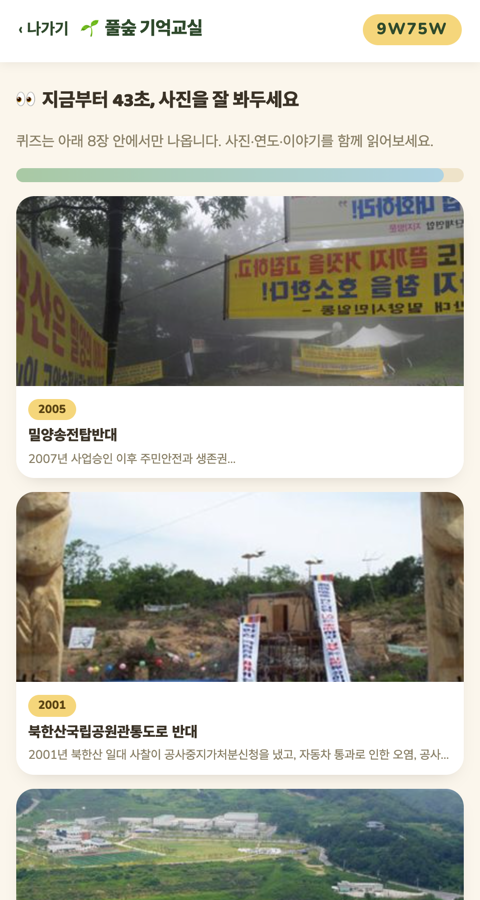
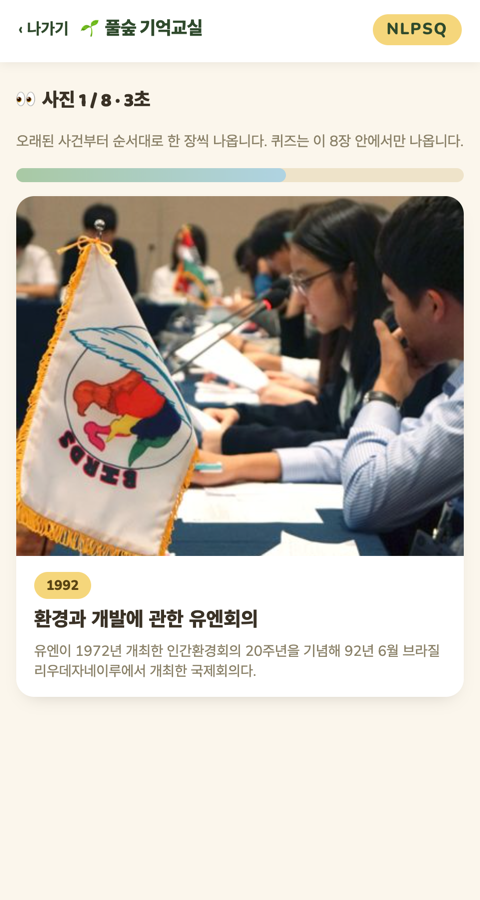
학습 단계를 8장 동시 노출에서 연도순 1장씩 5초로 변경
- 8장을 한꺼번에 보여주던 학습 화면을, 오래된 사건부터
  한 장씩 5초씩 자동으로 넘어가도록 변경(studyIndex/studyCardEndsAt)
- 카드를 크게 키운 단일 카드 뷰(.scard.big)로 교체
- RULES.md·README에 새 진행 방식 반영, 순서 배열 라운드가
  쉬워질 수 있다는 점을 메모로 남김
- README 대표 스크린샷을 새 화면으로 교체

diff --git a/public/js/game.js b/public/js/game.js
@@ -1,8 +1,8 @@
-/* 방 하나(room.html)의 전체 로직: 대기실 → 학습(45초) → 정답 맞히기(8문항×10초) → 순서로 줄 세우기(35초) → 결과 */
+/* 방 하나(room.html)의 전체 로직: 대기실 → 학습(연도순 1장씩 5초) → 정답 맞히기(8문항×10초) → 순서로 줄 세우기(35초) → 결과 */
 
 const params = new URLSearchParams(location.search);
 const CODE = (params.get("code") || "").toUpperCase();
-const STUDY_MS = 45000;
+const STUDY_CARD_MS = 5000;
 const MC_MS = 10000;
 const ORDER_MS = 35000;
 const EARLY_ADVANCE_MS = 3000;
@@ -77,28 +77,31 @@ async function startGame() {
     const room = snap.data();
     if (room.status !== "lobby") return;
 
-    const studyCards = pick(CARDS.map(c => c.id), N_CARDS);
+    const studyCards = pick(CARDS.map(c => c.id), N_CARDS).sort((a, b) => CARDS_BY_ID[a].year - CARDS_BY_ID[b].year);
     const players = {};
     for (const uid of room.baseOrder) players[`players.${uid}.answers`] = {};
 
     tx.update(roomRef(), {
-      status: "study", studyCards,
-      studyEndsAt: ts(Date.now() + STUDY_MS),
+      status: "study", studyCards, studyIndex: 0,
+      studyCardEndsAt: ts(Date.now() + STUDY_CARD_MS),
       ...players
     });
   });
 }
 
-async function advanceToQuiz() {
+/** 학습 카드를 한 장씩 넘기다가, 마지막 장 다음엔 바로 퀴즈로 전환한다. */
+async function advanceStudy() {
   await db.runTransaction(async tx => {
     const snap = await tx.get(roomRef());
     const room = snap.data();
     if (room.status !== "study") return;
-    const quiz = buildQuiz(room.studyCards);
-    tx.update(roomRef(), {
-      status: "quiz", quiz, quizIndex: 0,
-      questionEndsAt: ts(Date.now() + quiz[0].timeMs)
-    });
+    const next = room.studyIndex + 1;
+    if (next >= room.studyCards.length) {
+      const quiz = buildQuiz(room.studyCards);
+      tx.update(roomRef(), { status: "quiz", quiz, quizIndex: 0, questionEndsAt: ts(Date.now() + quiz[0].timeMs) });
+    } else {
+      tx.update(roomRef(), { studyIndex: next, studyCardEndsAt: ts(Date.now() + STUDY_CARD_MS) });
+    }
   });
 }
 
@@ -184,23 +187,24 @@ function renderLobby(room) {
 
 function renderStudy(room) {
   hide("lobby"); show("study"); hide("quiz"); hide("finished");
-  document.getElementById("studyGrid").innerHTML = room.studyCards.map(id => {
-    const c = CARDS_BY_ID[id];
-    return `<div class="scard"><img src="${c.image}" alt="">
-      <div class="b"><span class="yr">${c.year}</span><div class="ti">${esc(c.title)}</div><div class="de">${esc(c.hook || c.desc || "")}</div></div>
-    </div>`;
-  }).join("");
+  document.getElementById("studyNo").textContent = room.studyIndex + 1;
+
+  const id = room.studyCards[room.studyIndex];
+  const c = CARDS_BY_ID[id];
+  document.getElementById("studyGrid").innerHTML = `<div class="scard big"><img src="${c.image}" alt="">
+    <div class="b"><span class="yr">${c.year}</span><div class="ti">${esc(c.title)}</div><div class="de">${esc(c.hook || c.desc || "")}</div></div>
+  </div>`;
 
   const tick = () => {
     if (document.getElementById("study").hidden) return;
-    const remain = room.studyEndsAt.toMillis() - Date.now();
-    const pct = Math.max(0, Math.min(100, remain / STUDY_MS * 100));
+    const remain = room.studyCardEndsAt.toMillis() - Date.now();
+    const pct = Math.max(0, Math.min(100, remain / STUDY_CARD_MS * 100));
     const bar = document.getElementById("studyBar");
     bar.querySelector("i").style.width = pct + "%";
-    bar.classList.toggle("warn", remain < 15000);
+    bar.classList.toggle("warn", remain < 1500);
     document.getElementById("studySec").textContent = Math.max(0, Math.ceil(remain / 1000));
     if (remain <= 0) {
-      if (ME.uid === room.hostUid && !advancing) { advancing = true; advanceToQuiz().catch(() => {}).finally(() => { advancing = false; }); }
+      if (ME.uid === room.hostUid && !advancing) { advancing = true; advanceStudy().catch(() => {}).finally(() => { advancing = false; }); }
     } else {
       requestAnimationFrame(tick);
     }

diff --git a/public/css/style.css b/public/css/style.css
@@ -33,13 +33,17 @@ input[type=text]:focus{outline:3px solid var(--blue)}
 .timerbar.warn > i{background:linear-gradient(90deg,var(--yellow),var(--pink))}
 .timenum{font-weight:900;font-size:1.3rem;color:var(--green-ink)}
 
-.studygrid{display:grid;grid-template-columns:repeat(auto-fill,minmax(220px,1fr));gap:14px;margin:14px 0}
-.scard{background:#fff;border-radius:18px;overflow:hidden;box-shadow:0 8px 18px -10px rgba(58,50,38,.25)}
+.scard{background:#fff;border-radius:18px;overflow:hidden;box-shadow:0 8px 18px -10px rgba(58,50,38,.25);margin:14px 0}
 .scard img{width:100%;height:190px;object-fit:cover;display:block}
 .scard .b{padding:10px 12px}
 .scard .yr{display:inline-block;background:var(--yellow);color:var(--yellow-ink);font-weight:800;font-size:.72rem;padding:2px 10px;border-radius:999px}
 .scard .ti{font-weight:800;font-size:.92rem;margin-top:6px;line-height:1.3}
 .scard .de{font-size:.76rem;color:var(--muted);margin-top:4px;line-height:1.4}
+.scard.big img{height:min(52vh,360px)}
+.scard.big .b{padding:16px 18px}
+.scard.big .yr{font-size:.85rem;padding:3px 12px}
+.scard.big .ti{font-size:1.25rem;margin-top:8px}
+.scard.big .de{font-size:.9rem;margin-top:8px}
 
 .qcard{background:#fff;border-radius:22px;box-shadow:0 10px 24px -12px rgba(58,50,38,.22);padding:20px;margin:16px 0;text-align:center}
 .qcard img{width:100%;max-height:320px;object-fit:cover;border-radius:16px;margin-bottom:14px}

diff --git a/public/room.html b/public/room.html
@@ -16,10 +16,10 @@
 </section>
 
 <section id="study" hidden>
-  <h2>👀 지금부터 <span id="studySec">45</span>초, 사진을 잘 봐두세요</h2>
-  <p class="note">퀴즈는 아래 8장 안에서만 나옵니다. 사진·연도·이야기를 함께 읽어보세요.</p>
+  <h2>👀 사진 <span id="studyNo"></span> / 8 · <span id="studySec"></span>초</h2>
+  <p class="note">오래된 사건부터 순서대로 한 장씩 나옵니다. 퀴즈는 이 8장 안에서만 나옵니다.</p>
   <div class="timerbar" id="studyBar"><i style="width:100%"></i></div>
-  <div class="studygrid" id="studyGrid"></div>
+  <div id="studyGrid"></div>
 </section>
 
 <section id="quiz" hidden>

diff --git a/RULES.md b/RULES.md
@@ -5,17 +5,17 @@
 
 ## 콘셉트
 
-먼저 다 같이 같은 사진 8장을 눈으로 익힌다. 사진이 가려지면,
+먼저 다 같이 같은 사진 8장을 오래된 순서로 한 장씩 본다. 사진이 가려지면,
 그 순간 본 것만으로 사건과 연도를 맞히고, 마지막엔 8건을 통째로 시간 순서에 줄 세운다.
 빨리 누르는 게임이 아니라 **제대로 들여다본 사람이 이기는** 게임이다.
 
 ## 진행
 
-### 1단계 — 학습 (45초)
+### 1단계 — 학습 (한 장당 5초 × 8장, 오래된 순서로)
 
-방장이 시작하면 환경아카이브 사건 카드 **8장**이 화면에 한꺼번에 뜬다.
+방장이 시작하면 환경아카이브 사건 카드가 **오래된 사건부터 한 장씩** 5초 동안 크게 뜬다.
 각 카드는 사진 · 연도 · 제목과, 그 사건에서 가장 인상적인 한 문장(아래 참고)을 보여준다.
-전원이 같은 8장을 45초 동안 눈으로 익힌다. 이 시간엔 아무것도 누르지 않는다.
+전원이 같은 8장을 같은 순서로, 같은 속도로 본다. 이 시간엔 아무것도 누르지 않는다.
 
 ### 2단계 — 정답 맞히기 (문항당 10초 × 8문항, 전원이 답하면 3초 뒤 바로 다음)
 
@@ -35,6 +35,10 @@
 빈 자리 8칸을 채우면 된다. 4지선다보다 훨씬 어렵다 — 개별 사실이 아니라
 "무엇이 먼저였는지" 전체 흐름을 기억해야 풀리기 때문이다.
 자리마다 **5점**, 정확히 맞힌 칸 수만큼 점수(최대 40점). 8칸을 다 채우면 자동 제출된다.
+
+> **참고**: 학습 단계가 이미 연도순으로 한 장씩 보여주기 때문에, 이 라운드는 "사건이 언제
+> 일어났는지"보다 "아까 본 순서가 뭐였더라"에 더 가까워질 수 있다. 더 어렵게 만들고
+> 싶다면 학습 순서를 무작위로 섞는 옵션을 고려할 수 있다.
 
 ### 4단계 — 결과
 
@@ -72,8 +76,8 @@
 
 ## 전시장 운영
 
-- 한 판 약 3~4분(학습 45초 + 정답 맞히기 8×최대10초 + 순서 배열 최대35초 + 결과), 1~10인. 다들 빨리 답하면 더 짧아진다.
-- 진행자 없이 굴러가야 한다. 규칙은 학습 화면 첫 줄에: "지금부터 45초, 사진을 잘 봐두세요."
+- 한 판 약 3~4분(학습 5×8초=40초 + 정답 맞히기 8×최대10초 + 순서 배열 최대35초 + 결과), 1~10인. 다들 빨리 답하면 더 짧아진다.
+- 진행자 없이 굴러가야 한다. 학습 화면에 지금 몇 번째 사진인지·몇 초 남았는지가 항상 보인다.
 - 방장 기기가 타이머를 넘기는 역할을 하므로, 방장은 판이 끝날 때까지 화면을 꺼두지 않는다.
 
 ## 자료 이용

diff --git a/README.md b/README.md
@@ -13,7 +13,7 @@
 
 ## 어떤 게임인가요
 
-1. **학습 (45초)** — 방장이 시작하면 사건 카드 8장(사진·연도·한 줄 이야기)이 동시에 뜹니다. 전원이 같은 8장을 눈으로 익힙니다.
+1. **학습 (한 장당 5초 × 8장)** — 방장이 시작하면 사건 카드가 오래된 순서로 한 장씩 크게 뜹니다(사진·연도·한 줄 이야기). 전원이 같은 순서, 같은 속도로 봅니다.
 2. **정답 맞히기 (8문항)** — 카드가 사라지고, 방금 본 사진/사건을 4지선다로 묻습니다. 보기는 전부 방금 본 8건 안에서만 나와서 순수 상식이 아니라 진짜 기억을 시험합니다. 전원이 답하면 3초 뒤 바로 다음 문제로.
 3. **순서로 줄 세우기 (35초)** — 방금 본 8건을 뒤섞어 보여주고, 오래된 순서대로 눌러 배열합니다. 낱개 사실이 아니라 흐름 전체를 기억해야 풀립니다.
 4. **결과** — 점수 합산 후 오늘 함께 본 8건이 다시 보이고, 각각 풀숲 원문 소장자료로 이어집니다.
